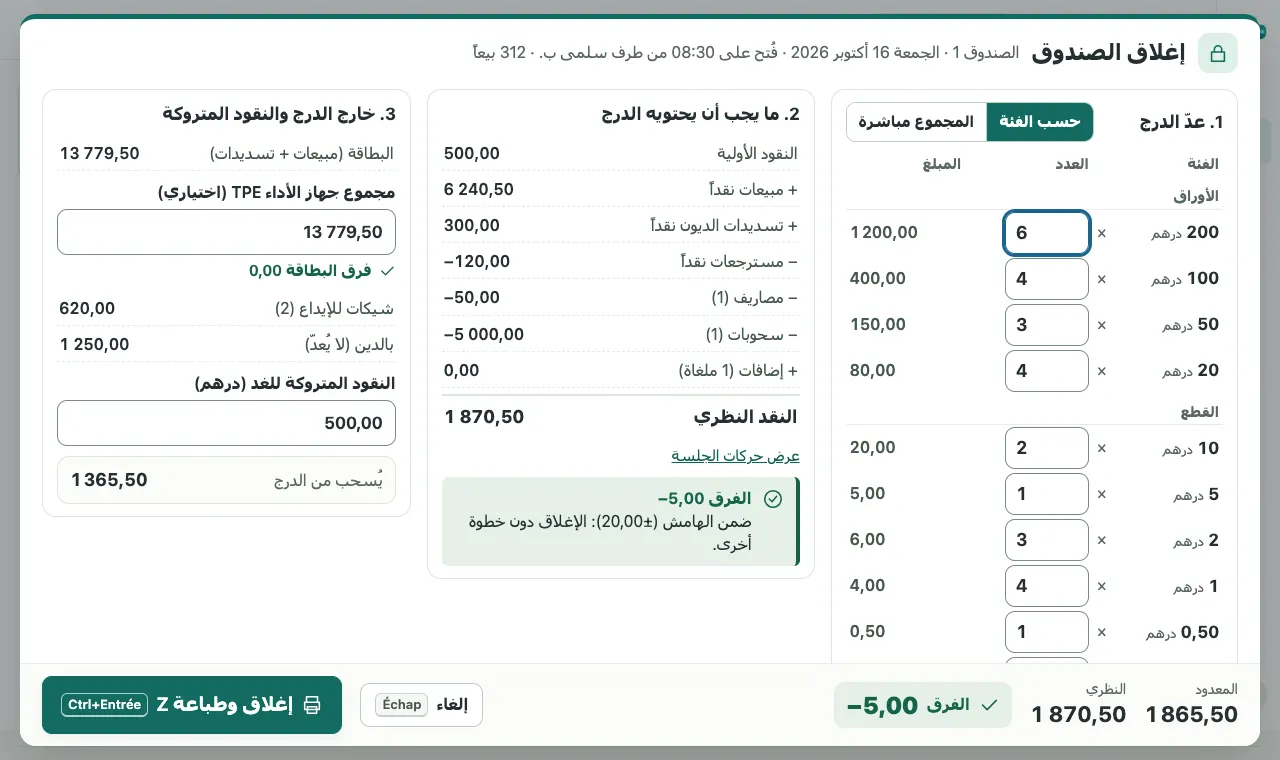
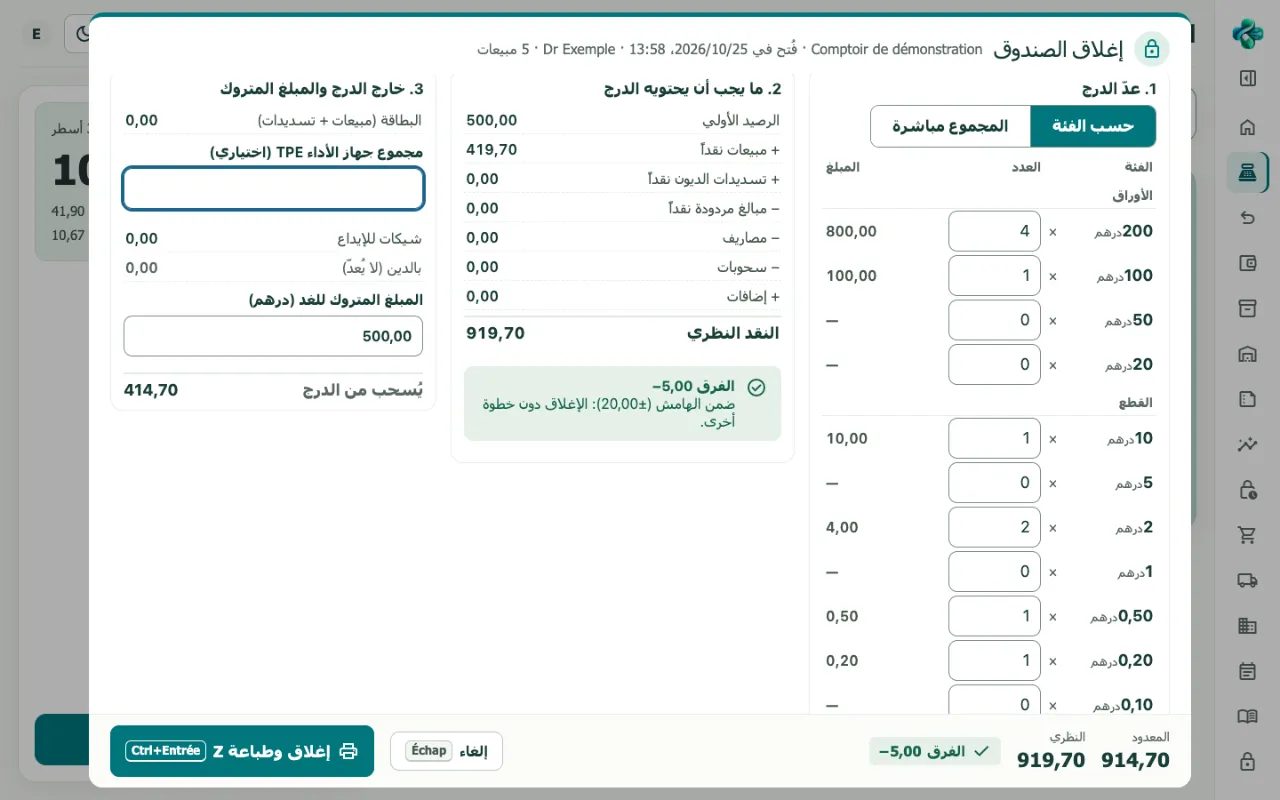
Show real DWAYATI screenshots, light and dark

diff --git a/ar/index.html b/ar/index.html
@@ -123,7 +123,7 @@
     </div>
     <figure class="shot">
       <div class="frame">
-        <img src="../assets/captures/caisse-ar-1280.webp" srcset="../assets/captures/caisse-ar-640.webp 640w, ../assets/captures/caisse-ar-1280.webp 1280w" sizes="(min-width: 960px) 600px, calc(100vw - 32px)" width="1280" height="760" fetchpriority="high" alt="شاشة الصندوق بالعربية: خانة المسح في الأعلى، سلة من ستة منتجات مع الدفعة وتاريخ الانتهاء، المبلغ المستحق 505,90 درهم، أداء مختلط نقدًا وبالدين.">
+        <img class="shot-light" src="../assets/captures/caisse-ar-1280.webp" srcset="../assets/captures/caisse-ar-640.webp 640w, ../assets/captures/caisse-ar-1280.webp 1280w" sizes="(min-width: 960px) 600px, calc(100vw - 32px)" fetchpriority="high" width="1280" height="800" alt="شاشة الصندوق بالعربية: خانة المسح في الأعلى، سلة من ثلاثة منتجات مع الدفعة وتاريخ الانتهاء، المبلغ المستحق 105,90 درهم ظاهر دائمًا، وزر التحصيل F12."><img class="shot-dark" src="../assets/captures/caisse-ar-sombre-1280.webp" srcset="../assets/captures/caisse-ar-sombre-640.webp 640w, ../assets/captures/caisse-ar-sombre-1280.webp 1280w" sizes="(min-width: 960px) 600px, calc(100vw - 32px)" loading="lazy" decoding="async" width="1280" height="800" alt="شاشة الصندوق بالعربية: خانة المسح في الأعلى، سلة من ثلاثة منتجات مع الدفعة وتاريخ الانتهاء، المبلغ المستحق 105,90 درهم ظاهر دائمًا، وزر التحصيل F12.">
       </div>
       <figcaption>الصندوق: خانة المسح جاهزة دائمًا، والمبلغ الإجمالي ظاهر طوال الوقت. معطيات وهمية.</figcaption>
     </figure>
@@ -242,8 +242,8 @@
         </ul>
       </div>
       <figure class="shot">
-        <div class="frame"><img src="../assets/captures/stock-ar-1280.webp" srcset="../assets/captures/stock-ar-640.webp 640w, ../assets/captures/stock-ar-1280.webp 1280w" sizes="(min-width: 960px) 620px, calc(100vw - 32px)" width="1280" height="760" loading="lazy" decoding="async" alt="شاشة المخزون والدفعات بالعربية: عدد المنتجات المتابعة، تحت الحد الأدنى، النفاد؛ لائحة مع أقرب تاريخ انتهاء، ومخدّر مميّز باللون البنفسجي."></div>
-        <figcaption>المخزون والدفعات: أقرب تاريخ انتهاء، المخدّرات ومنتجات التبريد مميّزة. معطيات وهمية.</figcaption>
+        <div class="frame"><img class="shot-light" src="../assets/captures/stock-ar-1280.webp" srcset="../assets/captures/stock-ar-640.webp 640w, ../assets/captures/stock-ar-1280.webp 1280w" sizes="(min-width: 960px) 620px, calc(100vw - 32px)" loading="lazy" decoding="async" width="1280" height="800" alt="شاشة المخزون والدفعات بالعربية: ستة عشر منتجًا متابعًا، ثلاثة تحت الحد الأدنى؛ لكل منتج المتاح والحد الأدنى والأقصى وأقرب تاريخ انتهاء والموضع، ومنتج مبرّد مميّز."><img class="shot-dark" src="../assets/captures/stock-ar-sombre-1280.webp" srcset="../assets/captures/stock-ar-sombre-640.webp 640w, ../assets/captures/stock-ar-sombre-1280.webp 1280w" sizes="(min-width: 960px) 620px, calc(100vw - 32px)" loading="lazy" decoding="async" width="1280" height="800" alt="شاشة المخزون والدفعات بالعربية: ستة عشر منتجًا متابعًا، ثلاثة تحت الحد الأدنى؛ لكل منتج المتاح والحد الأدنى والأقصى وأقرب تاريخ انتهاء والموضع، ومنتج مبرّد مميّز."></div>
+        <figcaption>المخزون والدفعات: أقرب تاريخ انتهاء، الحد الأدنى والأقصى، ومنتجات التبريد مميّزة. معطيات وهمية.</figcaption>
       </figure>
     </article>
 
@@ -259,8 +259,8 @@
         </ul>
       </div>
       <figure class="shot">
-        <div class="frame"><img src="../assets/captures/commandes-ar-1280.webp" srcset="../assets/captures/commandes-ar-640.webp 640w, ../assets/captures/commandes-ar-1280.webp 1280w" sizes="(min-width: 960px) 620px, calc(100vw - 32px)" width="1280" height="760" loading="lazy" decoding="async" alt="شاشة اقتراح اليوم بالعربية: 9 منتجات، موردان، 127 علبة؛ لكل منتج المتوفر والحد الأدنى والأقصى والحاجة والتعبئة والكمية المطلوبة."></div>
-        <figcaption>اقتراح اليوم: كميات محسوبة ومقرّبة إلى التعبئة، وصل لكل موزّع. معطيات وهمية.</figcaption>
+        <div class="frame"><img class="shot-light" src="../assets/captures/reception-ar-1280.webp" srcset="../assets/captures/reception-ar-640.webp 640w, ../assets/captures/reception-ar-1280.webp 1280w" sizes="(min-width: 960px) 620px, calc(100vw - 32px)" loading="lazy" decoding="async" width="1280" height="800" alt="شاشة مراقبة الاستلام بالعربية: وصل BL-2026-1042 من «Grossiste Exemple»، سطور مملوءة بالدفعة وتاريخ الانتهاء والكميات والأثمنة، المنتج المبرّد في الأعلى، وسطران مؤشَّر عليهما بعد مسح العلب."><img class="shot-dark" src="../assets/captures/reception-ar-sombre-1280.webp" srcset="../assets/captures/reception-ar-sombre-640.webp 640w, ../assets/captures/reception-ar-sombre-1280.webp 1280w" sizes="(min-width: 960px) 620px, calc(100vw - 32px)" loading="lazy" decoding="async" width="1280" height="800" alt="شاشة مراقبة الاستلام بالعربية: وصل BL-2026-1042 من «Grossiste Exemple»، سطور مملوءة بالدفعة وتاريخ الانتهاء والكميات والأثمنة، المنتج المبرّد في الأعلى، وسطران مؤشَّر عليهما بعد مسح العلب."></div>
+        <figcaption>مراقبة الاستلام: سطور الوصل مملوءة، والعلب يُؤشَّر عليها عند المسح، ومنتجات التبريد في الأعلى. معطيات وهمية.</figcaption>
       </figure>
     </article>
 
@@ -275,7 +275,7 @@
         </ul>
       </div>
       <figure class="shot">
-        <div class="frame"><img src="../assets/captures/cloture-ar-1280.webp" srcset="../assets/captures/cloture-ar-640.webp 640w, ../assets/captures/cloture-ar-1280.webp 1280w" sizes="(min-width: 960px) 620px, calc(100vw - 32px)" width="1280" height="760" loading="lazy" decoding="async" alt="نافذة إغلاق الصندوق بالعربية: العدّ حسب الأوراق والقطع، ما يجب أن يحتويه الدرج، الفارق، وزر الإغلاق وطباعة Z."></div>
+        <div class="frame"><img class="shot-light" src="../assets/captures/cloture-ar-1280.webp" srcset="../assets/captures/cloture-ar-640.webp 640w, ../assets/captures/cloture-ar-1280.webp 1280w" sizes="(min-width: 960px) 620px, calc(100vw - 32px)" loading="lazy" decoding="async" width="1280" height="800" alt="نافذة إغلاق الصندوق بالعربية: العدّ حسب الأوراق والقطع، النقد النظري 919,70 درهم، فارق ناقص 5,00 دراهم ضمن الهامش، وزر الإغلاق وطباعة Z."><img class="shot-dark" src="../assets/captures/cloture-ar-sombre-1280.webp" srcset="../assets/captures/cloture-ar-sombre-640.webp 640w, ../assets/captures/cloture-ar-sombre-1280.webp 1280w" sizes="(min-width: 960px) 620px, calc(100vw - 32px)" loading="lazy" decoding="async" width="1280" height="800" alt="نافذة إغلاق الصندوق بالعربية: العدّ حسب الأوراق والقطع، النقد النظري 919,70 درهم، فارق ناقص 5,00 دراهم ضمن الهامش، وزر الإغلاق وطباعة Z."></div>
         <figcaption>إغلاق الصندوق: عدّ حسب الفئات، فارق محسوب، وطباعة Z. معطيات وهمية.</figcaption>
       </figure>
     </article>
@@ -290,8 +290,8 @@
         </ul>
       </div>
       <figure class="shot">
-        <div class="frame"><img src="../assets/captures/analyse-ar-1280.webp" srcset="../assets/captures/analyse-ar-640.webp 640w, ../assets/captures/analyse-ar-1280.webp 1280w" sizes="(min-width: 960px) 620px, calc(100vw - 32px)" width="1280" height="760" loading="lazy" decoding="async" alt="شاشة تحليل المبيعات والهامش بالعربية: رقم المعاملات مع الضريبة ودونها، الهامش الإجمالي، عدد التذاكر، متوسط السلة، مع المقارنة بالسنة الماضية."></div>
-        <figcaption>تحليل المبيعات والهامش، شهرًا بشهر. معطيات وهمية.</figcaption>
+        <div class="frame"><img class="shot-light" src="../assets/captures/accueil-ar-1280.webp" srcset="../assets/captures/accueil-ar-640.webp 640w, ../assets/captures/accueil-ar-1280.webp 1280w" sizes="(min-width: 960px) 620px, calc(100vw - 32px)" loading="lazy" decoding="async" width="1280" height="800" alt="الصفحة الرئيسية بالعربية: الصندوق مفتوح، «ما يجب فعله الآن» مع استلام للمراقبة وثلاثة منتجات تحت الحد الأدنى، ومبيعات اليوم 419,70 درهم نقدًا."><img class="shot-dark" src="../assets/captures/accueil-ar-sombre-1280.webp" srcset="../assets/captures/accueil-ar-sombre-640.webp 640w, ../assets/captures/accueil-ar-sombre-1280.webp 1280w" sizes="(min-width: 960px) 620px, calc(100vw - 32px)" loading="lazy" decoding="async" width="1280" height="800" alt="الصفحة الرئيسية بالعربية: الصندوق مفتوح، «ما يجب فعله الآن» مع استلام للمراقبة وثلاثة منتجات تحت الحد الأدنى، ومبيعات اليوم 419,70 درهم نقدًا."></div>
+        <figcaption>الصفحة الرئيسية ترتّب ما هو مستعجل، الأكثر إلحاحًا في الأعلى. معطيات وهمية.</figcaption>
       </figure>
     </article>
 

diff --git a/index.html b/index.html
@@ -124,7 +124,7 @@
     </div>
     <figure class="shot">
       <div class="frame">
-        <img src="assets/captures/caisse-fr-1280.webp" srcset="assets/captures/caisse-fr-640.webp 640w, assets/captures/caisse-fr-1280.webp 1280w" sizes="(min-width: 960px) 600px, calc(100vw - 32px)" width="1280" height="760" fetchpriority="high" alt="Écran de caisse : champ de scan en haut, panier de trois produits avec lot et date de péremption, total à payer 150,50 DH, paiement en espèces avec monnaie à rendre 49,50 DH.">
+        <img class="shot-light" src="assets/captures/caisse-fr-1280.webp" srcset="assets/captures/caisse-fr-640.webp 640w, assets/captures/caisse-fr-1280.webp 1280w" sizes="(min-width: 960px) 600px, calc(100vw - 32px)" fetchpriority="high" width="1280" height="800" alt="Écran de caisse : champ de scan en haut, panier de trois articles avec lot et date de péremption, total à payer 105,90 DH toujours visible, bouton Encaisser F12."><img class="shot-dark" src="assets/captures/caisse-fr-sombre-1280.webp" srcset="assets/captures/caisse-fr-sombre-640.webp 640w, assets/captures/caisse-fr-sombre-1280.webp 1280w" sizes="(min-width: 960px) 600px, calc(100vw - 32px)" loading="lazy" decoding="async" width="1280" height="800" alt="Écran de caisse : champ de scan en haut, panier de trois articles avec lot et date de péremption, total à payer 105,90 DH toujours visible, bouton Encaisser F12.">
       </div>
       <figcaption>La caisse : le champ de scan garde la main, le total reste toujours visible. Données fictives.</figcaption>
     </figure>
@@ -244,8 +244,8 @@
         </ul>
       </div>
       <figure class="shot">
-        <div class="frame"><img src="assets/captures/stock-fr-1280.webp" srcset="assets/captures/stock-fr-640.webp 640w, assets/captures/stock-fr-1280.webp 1280w" sizes="(min-width: 960px) 620px, calc(100vw - 32px)" width="1280" height="760" loading="lazy" decoding="async" alt="Écran Stock et lots : produits suivis, sous le minimum, ruptures ; liste avec date de péremption la plus proche, un stupéfiant signalé en violet et un produit du froid."></div>
-        <figcaption>Stock et lots : péremption la plus proche, stupéfiants et produits du froid signalés. Données fictives.</figcaption>
+        <div class="frame"><img class="shot-light" src="assets/captures/stock-fr-1280.webp" srcset="assets/captures/stock-fr-640.webp 640w, assets/captures/stock-fr-1280.webp 1280w" sizes="(min-width: 960px) 620px, calc(100vw - 32px)" loading="lazy" decoding="async" width="1280" height="800" alt="Écran Stock et lots : seize articles suivis, trois sous le minimum ; pour chaque article le disponible, le mini et maxi, la péremption la plus proche et l'emplacement, un produit du froid signalé."><img class="shot-dark" src="assets/captures/stock-fr-sombre-1280.webp" srcset="assets/captures/stock-fr-sombre-640.webp 640w, assets/captures/stock-fr-sombre-1280.webp 1280w" sizes="(min-width: 960px) 620px, calc(100vw - 32px)" loading="lazy" decoding="async" width="1280" height="800" alt="Écran Stock et lots : seize articles suivis, trois sous le minimum ; pour chaque article le disponible, le mini et maxi, la péremption la plus proche et l'emplacement, un produit du froid signalé."></div>
+        <figcaption>Stock et lots : péremption la plus proche, mini et maxi, produits du froid signalés. Données fictives.</figcaption>
       </figure>
     </article>
 
@@ -261,8 +261,8 @@
         </ul>
       </div>
       <figure class="shot">
-        <div class="frame"><img src="assets/captures/commandes-fr-1280.webp" srcset="assets/captures/commandes-fr-640.webp 640w, assets/captures/commandes-fr-1280.webp 1280w" sizes="(min-width: 960px) 620px, calc(100vw - 32px)" width="1280" height="760" loading="lazy" decoding="async" alt="Écran Proposition du jour : 9 produits, 2 fournisseurs, 127 boîtes ; pour chaque produit le disponible, le mini et maxi, le besoin, le colisage et la quantité à commander."></div>
-        <figcaption>Proposition du jour : quantités calculées et arrondies au colisage, un bon par grossiste. Données fictives.</figcaption>
+        <div class="frame"><img class="shot-light" src="assets/captures/reception-fr-1280.webp" srcset="assets/captures/reception-fr-640.webp 640w, assets/captures/reception-fr-1280.webp 1280w" sizes="(min-width: 960px) 620px, calc(100vw - 32px)" loading="lazy" decoding="async" width="1280" height="800" alt="Écran Contrôle de la réception : bon BL-2026-1042 de Grossiste Exemple, lignes remplies avec lot, péremption, quantités et prix, produit du froid en tête, deux lignes cochées après le scan des boîtes."><img class="shot-dark" src="assets/captures/reception-fr-sombre-1280.webp" srcset="assets/captures/reception-fr-sombre-640.webp 640w, assets/captures/reception-fr-sombre-1280.webp 1280w" sizes="(min-width: 960px) 620px, calc(100vw - 32px)" loading="lazy" decoding="async" width="1280" height="800" alt="Écran Contrôle de la réception : bon BL-2026-1042 de Grossiste Exemple, lignes remplies avec lot, péremption, quantités et prix, produit du froid en tête, deux lignes cochées après le scan des boîtes."></div>
+        <figcaption>Contrôle de la réception : lignes du bon remplies, boîtes cochées au scan, produits du froid en tête. Données fictives.</figcaption>
       </figure>
     </article>
 
@@ -277,7 +277,7 @@
         </ul>
       </div>
       <figure class="shot">
-        <div class="frame"><img src="assets/captures/cloture-fr-1280.webp" srcset="assets/captures/cloture-fr-640.webp 640w, assets/captures/cloture-fr-1280.webp 1280w" sizes="(min-width: 960px) 620px, calc(100vw - 32px)" width="1280" height="760" loading="lazy" decoding="async" alt="Fenêtre Clôturer la caisse : comptage par billets et pièces, ce que le tiroir doit contenir, écart de moins 5,00 DH dans la tolérance, bouton Clôturer et imprimer le Z."></div>
+        <div class="frame"><img class="shot-light" src="assets/captures/cloture-fr-1280.webp" srcset="assets/captures/cloture-fr-640.webp 640w, assets/captures/cloture-fr-1280.webp 1280w" sizes="(min-width: 960px) 620px, calc(100vw - 32px)" loading="lazy" decoding="async" width="1280" height="800" alt="Fenêtre Clôturer la caisse : comptage par billets et pièces, espèces théoriques 919,70 DH, écart de moins 5,00 DH dans la tolérance, bouton Clôturer et imprimer le Z."><img class="shot-dark" src="assets/captures/cloture-fr-sombre-1280.webp" srcset="assets/captures/cloture-fr-sombre-640.webp 640w, assets/captures/cloture-fr-sombre-1280.webp 1280w" sizes="(min-width: 960px) 620px, calc(100vw - 32px)" loading="lazy" decoding="async" width="1280" height="800" alt="Fenêtre Clôturer la caisse : comptage par billets et pièces, espèces théoriques 919,70 DH, écart de moins 5,00 DH dans la tolérance, bouton Clôturer et imprimer le Z."></div>
         <figcaption>Clôture de caisse : comptage par coupures, écart calculé, Z imprimé. Données fictives.</figcaption>
       </figure>
     </article>
@@ -292,7 +292,7 @@
         </ul>
       </div>
       <figure class="shot">
-        <div class="frame"><img src="assets/captures/accueil-fr-1280.webp" srcset="assets/captures/accueil-fr-640.webp 640w, assets/captures/accueil-fr-1280.webp 1280w" sizes="(min-width: 960px) 620px, calc(100vw - 32px)" width="1280" height="760" loading="lazy" decoding="async" alt="Accueil À faire maintenant : commandes non livrées depuis 7 jours, réception à contrôler, 3 lots qui périment dans moins de 3 mois, produits sous le minimum, inventaire des stupéfiants, comptes clients en retard."></div>
+        <div class="frame"><img class="shot-light" src="assets/captures/accueil-fr-1280.webp" srcset="assets/captures/accueil-fr-640.webp 640w, assets/captures/accueil-fr-1280.webp 1280w" sizes="(min-width: 960px) 620px, calc(100vw - 32px)" loading="lazy" decoding="async" width="1280" height="800" alt="Accueil : caisse ouverte, « À faire maintenant » avec une réception à contrôler et trois produits sous le minimum, ventes du jour 419,70 DH en espèces."><img class="shot-dark" src="assets/captures/accueil-fr-sombre-1280.webp" srcset="assets/captures/accueil-fr-sombre-640.webp 640w, assets/captures/accueil-fr-sombre-1280.webp 1280w" sizes="(min-width: 960px) 620px, calc(100vw - 32px)" loading="lazy" decoding="async" width="1280" height="800" alt="Accueil : caisse ouverte, « À faire maintenant » avec une réception à contrôler et trois produits sous le minimum, ventes du jour 419,70 DH en espèces."></div>
         <figcaption>L'accueil range ce qui est urgent, le plus pressé en haut. Données fictives.</figcaption>
       </figure>
     </article>

diff --git a/assets/site.css b/assets/site.css
@@ -147,11 +147,18 @@ html[lang="ar"] .eyebrow { letter-spacing: 0; text-transform: none; font-size: .
 .chips li { display: inline-flex; align-items: center; gap: 6px; padding: 6px 12px; border-radius: 999px; background: var(--soft); color: var(--link); font-weight: 600; font-size: .92rem; }
 .chips .i { width: 18px; height: 18px; }
 
-/* Captures d'écran (maquettes, données fictives) */
+/* Captures d'écran (vraies captures de l'application, données fictives) : version claire ou sombre selon le thème de la page */
 .shot { margin: 0; }
+.shot .frame img { display: block; width: 100%; height: auto; }
+.shot .frame img.shot-dark { display: none; }
+:root[data-theme="dark"] .shot .frame img.shot-light { display: none; }
+:root[data-theme="dark"] .shot .frame img.shot-dark { display: block; }
+@media (prefers-color-scheme: dark) {
+  :root:not([data-theme]) .shot .frame img.shot-light { display: none; }
+  :root:not([data-theme]) .shot .frame img.shot-dark { display: block; }
+}
 .shot .frame { border-radius: var(--radius); overflow: hidden; border: 1px solid var(--line); box-shadow: var(--shadow); background: var(--surface); }
 .shot figcaption { margin-block-start: 10px; font-size: .9rem; color: var(--muted); }
-:root[data-theme="dark"] .shot img { filter: brightness(.92); }
 
 /* Visuel « comptoir du Maroc » sous l'accroche (découpe sans texte de l'affiche DWAYATI, emballages sans marque) */
 .maroc { grid-column: 1 / -1; margin: 0; }
